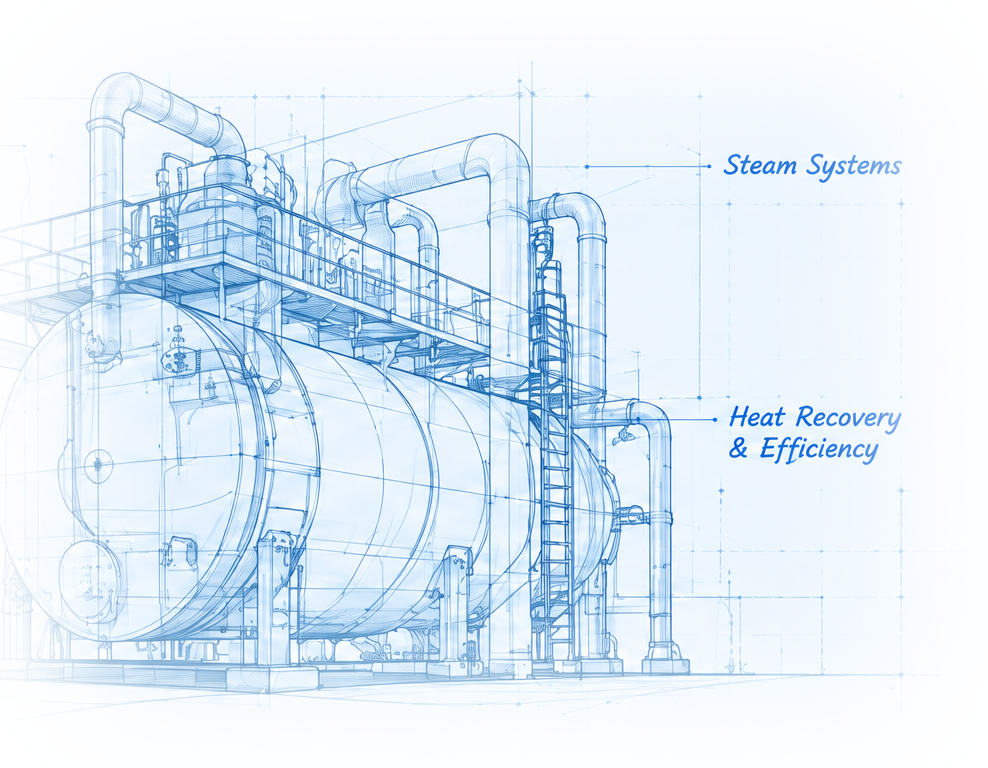
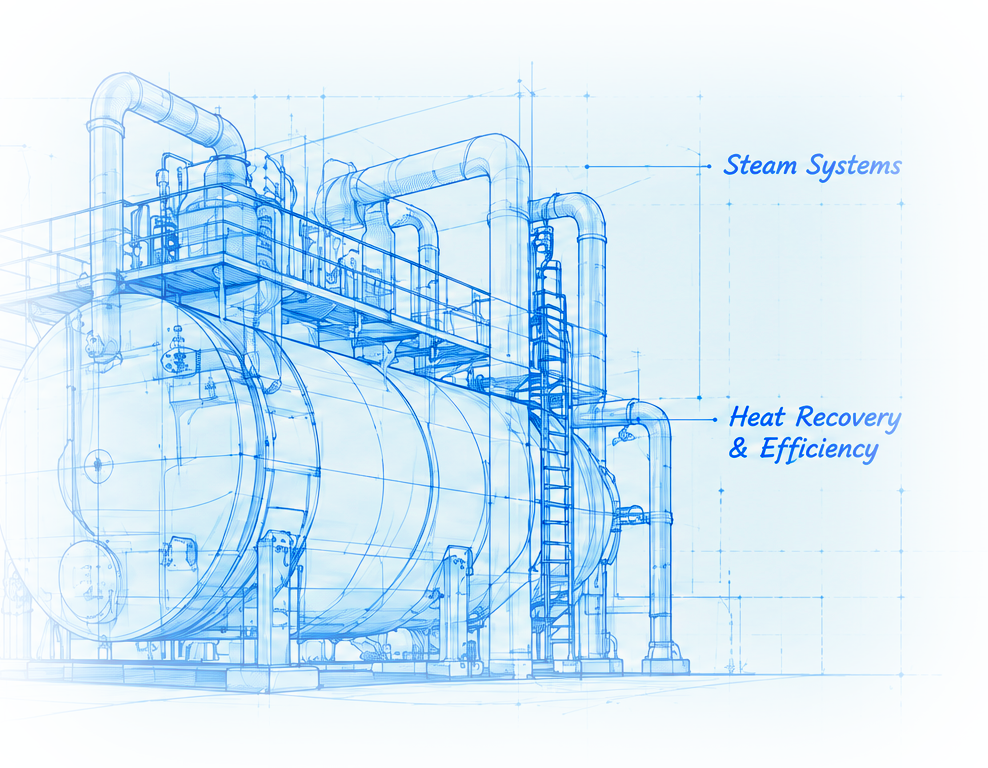
Enlarge Mission section and blend background with Leadership above
Heading, body text, buttons and the blueprint illustration are all
sized up. Section background is now a gradient from the site's
light-blue down to white (was flat white), so it eases in from the
Leadership section directly above it rather than cutting sharply to
white.

Note: this intentionally merges Mission and Leadership into one
continuous light-blue block at their shared border, confirmed via
screenshot before this commit.

Claude-Session: https://claude.ai/code/session_01BuTg8ERkhP5LpNpFSskAJB

diff --git a/src/pages/AboutUs.tsx b/src/pages/AboutUs.tsx
@@ -232,42 +232,41 @@ export default function AboutUs() {
 
       {/* Mission — two-column: eyebrow/heading/quote/CTAs on the left, an
           annotated engineering-blueprint illustration of a boiler system on
-          the right, matching a reference layout. Kept on white (rather than
-          the reference's light-blue) since Leadership right above this
-          section already uses the site's one light-blue, and stacking two
-          identical-colored sections back to back would remove the section
-          break between them. */}
-      <div className="bg-white py-20 px-4 sm:px-6 lg:px-8 overflow-hidden">
+          the right, matching a reference layout. Gradient (not flat) light-blue
+          so it reads as blue per the reference while still easing in from
+          Leadership's flat #E8F1FB above rather than repeating it exactly —
+          keeps a visible section break between the two. */}
+      <div className="bg-gradient-to-br from-[#E8F1FB] to-white py-24 sm:py-28 px-4 sm:px-6 lg:px-8 overflow-hidden">
         <div className="max-w-7xl mx-auto grid grid-cols-1 lg:grid-cols-12 gap-12 lg:gap-16 items-center">
-          <div className="lg:col-span-6 space-y-6 text-left">
+          <div className="lg:col-span-6 space-y-7 text-left">
             <div className="flex items-center gap-2.5">
               <span className="w-8 h-[2px] bg-[#DC2626]" />
               <p className="text-xs uppercase tracking-[0.18em] text-[#78889B] font-semibold">
                 Our Ongoing Mission
               </p>
             </div>
-            <h2 className="text-3xl sm:text-4xl md:text-[2.75rem] font-heading font-extrabold tracking-[-0.02em] leading-[1.08]">
+            <h2 className="text-4xl sm:text-5xl md:text-[3.5rem] font-heading font-extrabold tracking-[-0.02em] leading-[1.06]">
               <span className="text-[#0B1B2B]">Engineering a</span>
               <br />
               <span className="text-[#1C5CA8]">cleaner, safer</span>{' '}
               <span className="text-[#0B1B2B]">tomorrow.</span>
             </h2>
-            <p className="text-sm sm:text-base text-[#47566A] leading-relaxed max-w-xl">
+            <p className="text-base sm:text-lg text-[#47566A] leading-relaxed max-w-xl">
               "To manufacture and deploy thermodynamic units that outperform standard parameters, reduce
               ambient emissions to local pollution board standards, and empower chemical, food, and
               textile grids with total thermal security."
             </p>
-            <div className="pt-2 flex items-center gap-3">
+            <div className="pt-2 flex items-center gap-4">
               <Link
                 to="/products"
-                className="group inline-flex items-center gap-2 rounded-full bg-[#1C5CA8] hover:bg-[#103E72] text-white px-6 py-3 text-sm font-semibold transition-colors duration-200 shadow-[0_8px_24px_-8px_rgba(28,92,168,0.5)]"
+                className="group inline-flex items-center gap-2 rounded-full bg-[#1C5CA8] hover:bg-[#103E72] text-white px-8 py-4 text-base font-semibold transition-colors duration-200 shadow-[0_8px_24px_-8px_rgba(28,92,168,0.5)]"
               >
                 <span>View our products</span>
                 <ArrowRight className="w-4 h-4 transition-transform duration-200 group-hover:translate-x-0.5" />
               </Link>
               <Link
                 to="/contact"
-                className="inline-flex items-center rounded-full border border-[#0B1B2B]/15 bg-white text-[#0B1B2B] hover:border-[#0B1B2B]/40 px-6 py-3 text-sm font-semibold transition-colors duration-200"
+                className="inline-flex items-center rounded-full border border-[#0B1B2B]/15 bg-white text-[#0B1B2B] hover:border-[#0B1B2B]/40 px-8 py-4 text-base font-semibold transition-colors duration-200"
               >
                 Get in touch
               </Link>
@@ -278,7 +277,7 @@ export default function AboutUs() {
             <img
               src={`${base}images/about-mission-blueprint.png`}
               alt="Engineering blueprint of a steam boiler system, annotated with process heating, steam systems and heat recovery capabilities"
-              className="w-full h-auto"
+              className="w-full h-auto scale-110"
             />
             <span className="hidden sm:block absolute left-[2%] top-[10%] text-[#1C5CA8] text-sm sm:text-base italic font-medium" style={{ fontFamily: 'Georgia, serif' }}>
               Process Heating<br />Solutions
